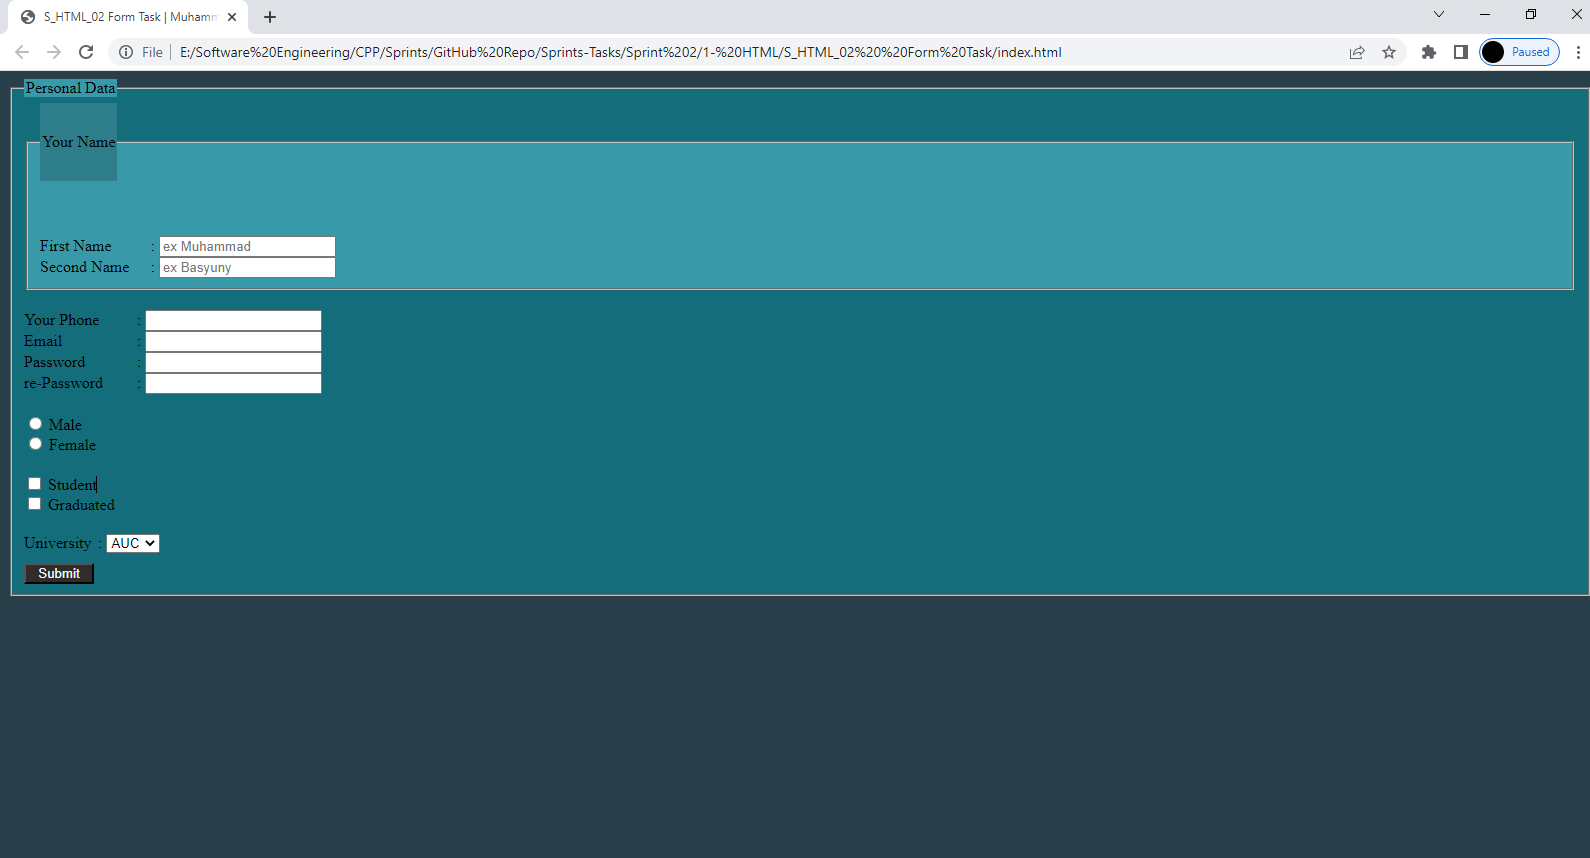
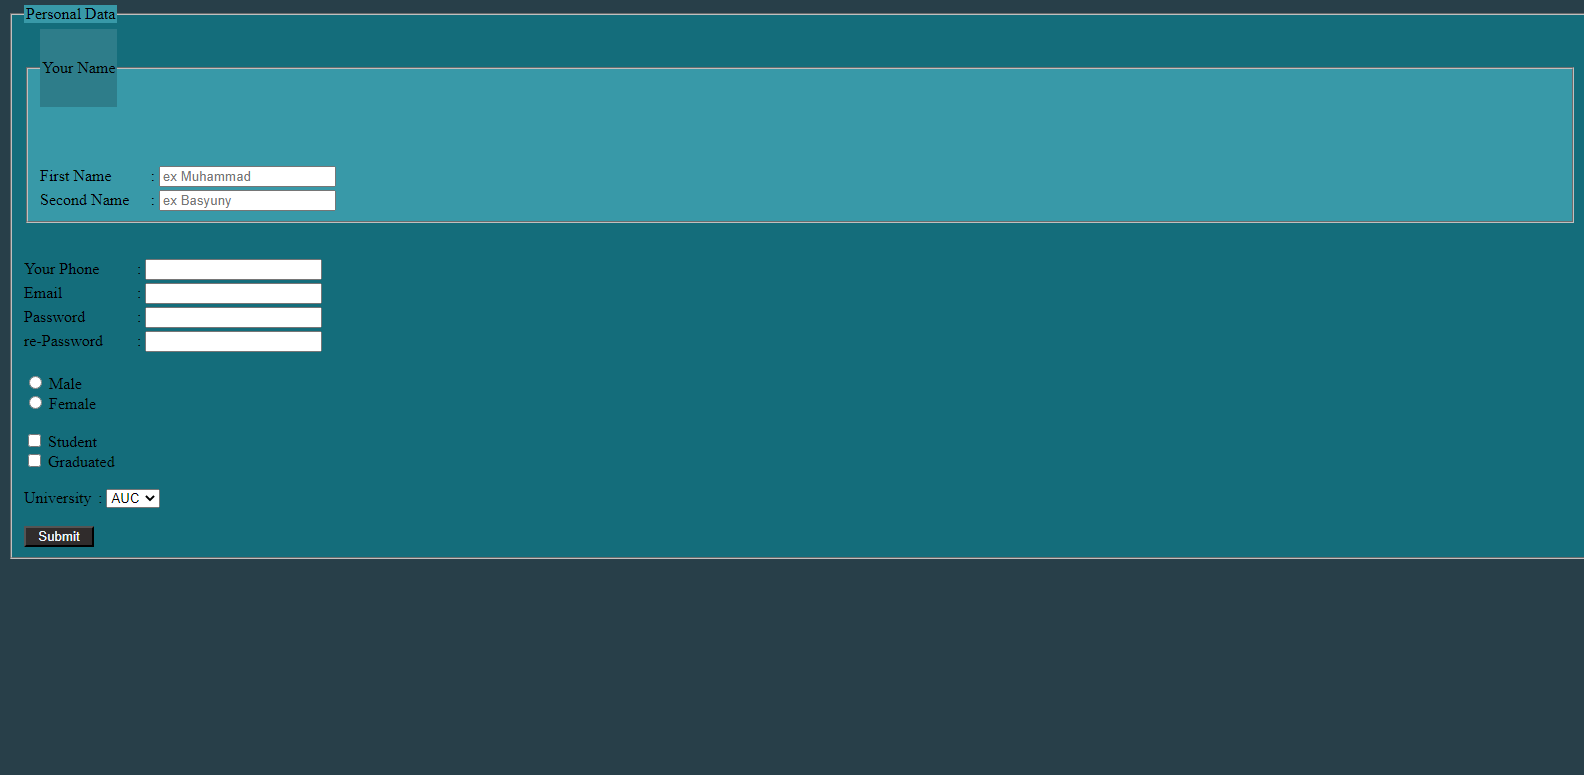
Updating S_HTML_02  Form Task 3

Changed region(s): [[0.0, 0.0, 1.0, 0.7432], [0.0309, 0.4955, 0.0619, 0.5265]]

diff --git a/Sprint 2/HTML/S_HTML_02  Form Task/index.html b/Sprint 2/HTML/S_HTML_02  Form Task/index.html
@@ -16,7 +16,7 @@
                     <br/>
                     <br/>
                     <br/>
-                    <div >
+                    <div style="padding-bottom: 3px;" >
                         <div style="display: inline-block; width: 7%;">
                             <label for="firstname"> First Name</label>
                         </div>
@@ -38,7 +38,7 @@
                
               <div>
 
-                <div>
+                <div style="padding-bottom: 3px;">
                     <div style="display: inline-block; width: 7%;">
                         <label for="yourphone"> Your Phone</label>
                     </div>
@@ -46,24 +46,23 @@
                      <input type="tel" id="yourphone" name="phone" required placeholder="" />
                 </div>
 
-              
-                <div>
+                <div style="padding-bottom: 3px;">
                     <div style="display: inline-block; width: 7%;">
                         <label for="email"> Email</label>
                     </div>
                     <span>:</span>
                      <input type="email" id="email" name="email" required placeholder="" />
                 </div>
-
-                <div>
+          
+                <div style="padding-bottom: 3px;">
                     <div style="display: inline-block; width: 7%;">
                         <label for="password"> Password</label>
                      </div>
                         <span>:</span>
                         <input type="password" id="password" name="password" required/>
                 </div>
-
-               <div>
+           
+               <div style="padding-bottom: 3px;">
                       <div style="display: inline-block; width: 7%;">
                         <label for="password"> re-Password</label>
                       </div>
